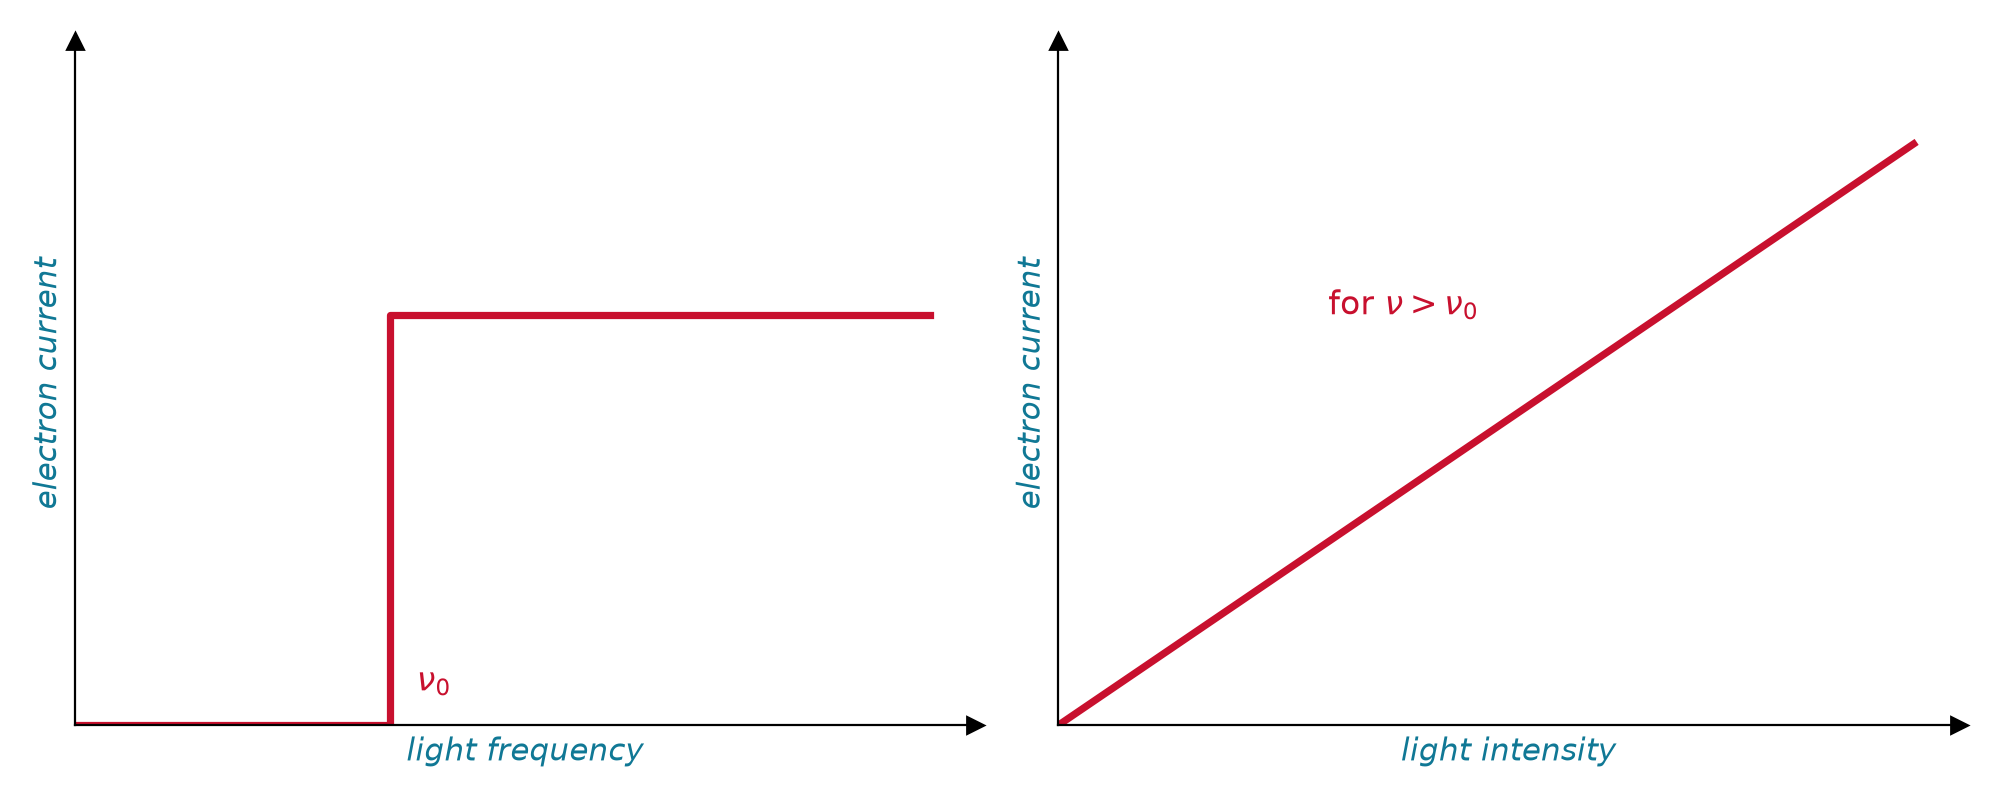
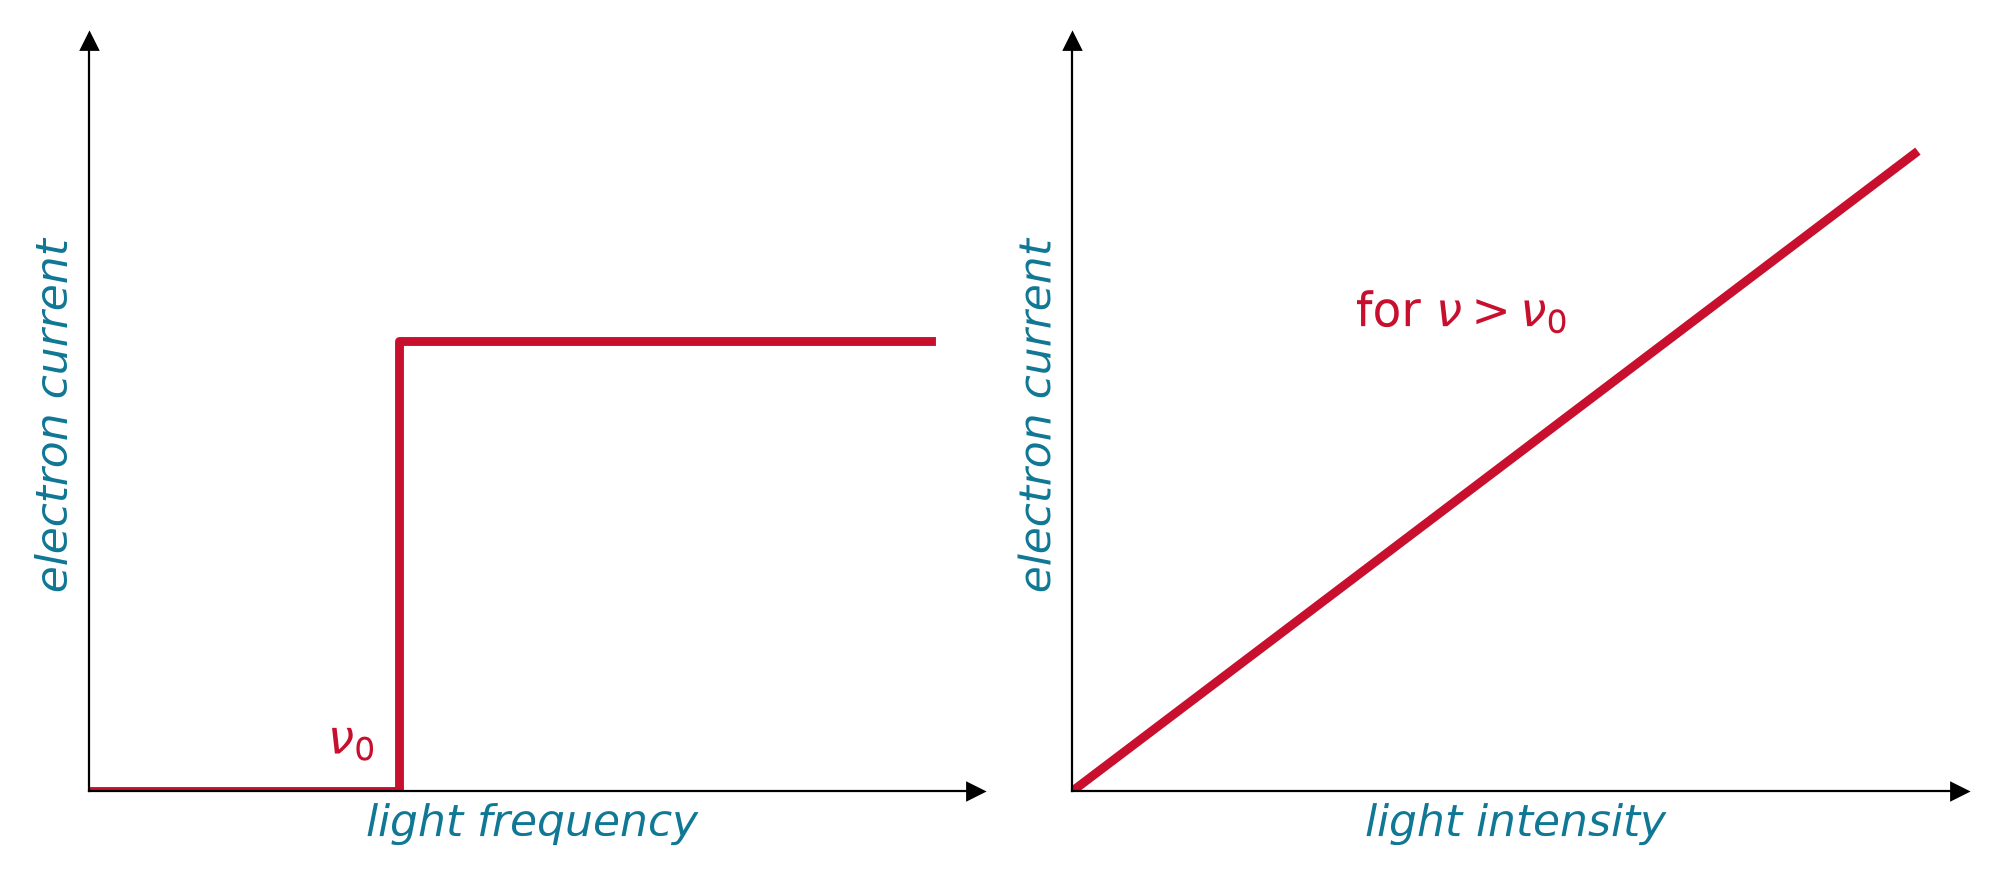
'photoelectric fix'

diff --git a/scripts/make_ch01_figures.py b/scripts/make_ch01_figures.py
@@ -177,23 +177,53 @@ ax.text(0, -radii[nmax] - 0.5, "orbit spacing schematic, not to scale", ha="cent
 ax.set_xlim(-6.4, 6.4); ax.set_ylim(-6.3, 6.4); ax.set_aspect("equal"); ax.axis("off")
 fig.tight_layout(); fig.savefig(f"{OUT}/bohr_series_orbits.png", dpi=200)
 
+# ---------------------------------------------------------------- 5b. why the classical wave picture fails
+fig, d1 = plt.subplots(figsize=(7.6, 4.6))
+schematic_axes(d1, "light intensity (brightness)", "electron kinetic energy")
+d1.xaxis.label.set_size(16); d1.yaxis.label.set_size(16)
+d1.plot([0, 0.9], [0.1, 0.75], "--", color=TEAL, lw=3.2)
+d1.text(0.48, 0.72, "KE predicted by\nclassical physics", color=TEAL, fontsize=17, ha="center")
+d1.plot([0, 0.9], [0.32, 0.32], color=CARDINAL, lw=3.4)
+d1.text(0.45, 0.20, "observed KE", color=CARDINAL, fontsize=17, ha="center")
+fig.tight_layout(); fig.savefig(f"{OUT}/photoelectric_classical_fail.png", dpi=200)
+
+# ---------------------------------------------------------------- 5c. wave vs photon stream
+fig, (e1, e2) = plt.subplots(2, 1, figsize=(8.5, 4.6), sharex=True)
+xw = np.linspace(0, 10, 800)
+e1.plot(xw, 0.8 * np.sin(2 * np.pi * 1.2 * xw), color=TEAL, lw=2.4)
+e1.set_ylim(-1.6, 1.6); e1.axis("off")
+e1.set_title("classical picture: a continuous wave, energy set by its amplitude", fontsize=13, color=BLACK, fontweight="bold")
+rng2 = np.random.default_rng(3)
+xp = np.linspace(0.4, 9.6, 14) + rng2.uniform(-0.15, 0.15, 14)
+yp = rng2.uniform(-0.75, 0.75, 14)
+e2.scatter(xp, yp, s=180, color=CARDINAL, alpha=0.9, edgecolors="white")
+for xi, yi in zip(xp[::3], yp[::3]):
+    e2.text(xi, yi + 0.42, r"$h\nu$", fontsize=12, ha="center", color=CARDINAL)
+e2.annotate("", xy=(10.4, 0), xytext=(9.9, 0), arrowprops=dict(arrowstyle="->", color=BLACK, lw=1.6))
+e2.set_ylim(-1.6, 1.6); e2.set_xlim(0, 10.6); e2.axis("off")
+e2.set_title("Einstein's picture: a stream of packets, each carrying exactly E = hν", fontsize=13, color=BLACK, fontweight="bold")
+fig.tight_layout(); fig.savefig(f"{OUT}/photon_stream.png", dpi=200)
+
 # ---------------------------------------------------------------- 6. photoelectric schematics
 nu0 = 0.35
-fig, (a1, a2) = plt.subplots(1, 2, figsize=(10, 4))
+fig, (a1, a2) = plt.subplots(1, 2, figsize=(10, 4.4))
 schematic_axes(a1, "light frequency", "electron kinetic energy")
-a1.plot([0, nu0], [0, 0], color=CARDINAL, lw=2.6); a1.plot([nu0, 0.95], [0, 0.8], color=CARDINAL, lw=2.6)
-a1.text(nu0 - 0.025, 0.05, r"$\nu_0$", ha="right", color=CARDINAL, fontsize=12)
-a1.text(0.58, 0.36, "slope = h", color=GRAY, fontsize=10, rotation=np.degrees(np.arctan2(0.8, 0.6)), transform_rotates_text=True, rotation_mode="anchor")
+a1.plot([0, nu0], [0, 0], color=CARDINAL, lw=3.2); a1.plot([nu0, 0.95], [0, 0.8], color=CARDINAL, lw=3.2)
+a1.text(nu0 - 0.025, 0.05, r"$\nu_0$", ha="right", color=CARDINAL, fontsize=17)
+a1.text(0.56, 0.33, "slope = h", color=GRAY, fontsize=14, rotation=np.degrees(np.arctan2(0.8, 0.6)), transform_rotates_text=True, rotation_mode="anchor")
 schematic_axes(a2, "light intensity", "electron kinetic energy")
-a2.plot([0, 0.95], [0.55, 0.55], color=CARDINAL, lw=2.6); a2.text(0.5, 0.6, r"$\nu > \nu_0$", ha="center", color=CARDINAL, fontsize=12)
-a2.plot([0, 0.95], [0, 0], color=CARDINAL, lw=2.6); a2.text(0.5, 0.05, r"$\nu < \nu_0$", ha="center", color=CARDINAL, fontsize=12)
+a2.plot([0, 0.95], [0.55, 0.55], color=CARDINAL, lw=3.2); a2.text(0.5, 0.61, r"$\nu > \nu_0$", ha="center", color=CARDINAL, fontsize=17)
+a2.plot([0, 0.95], [0, 0], color=CARDINAL, lw=3.2); a2.text(0.5, 0.06, r"$\nu < \nu_0$", ha="center", color=CARDINAL, fontsize=17)
+for ax in (a1, a2):
+    ax.xaxis.label.set_size(16); ax.yaxis.label.set_size(16)
 fig.tight_layout(); fig.savefig(f"{OUT}/photoelectric_ke.png", dpi=200)
 
-fig, (a1, a2) = plt.subplots(1, 2, figsize=(10, 4))
+fig, (a1, a2) = plt.subplots(1, 2, figsize=(10, 4.4))
 schematic_axes(a1, "light frequency", "electron current")
-a1.plot([0, nu0, nu0, 0.95], [0, 0, 0.6, 0.6], color=CARDINAL, lw=2.6)
-a1.text(nu0 + 0.03, 0.05, r"$\nu_0$", ha="left", color=CARDINAL, fontsize=12)
+a1.plot([0, nu0, nu0, 0.95], [0, 0, 0.6, 0.6], color=CARDINAL, lw=3.2)
+a1.text(nu0 - 0.025, 0.05, r"$\nu_0$", ha="right", color=CARDINAL, fontsize=17)
 schematic_axes(a2, "light intensity", "electron current")
-a2.plot([0, 0.95], [0, 0.85], color=CARDINAL, lw=2.6); a2.text(0.3, 0.6, r"for $\nu > \nu_0$", color=CARDINAL, fontsize=12)
+a2.plot([0, 0.95], [0, 0.85], color=CARDINAL, lw=3.2); a2.text(0.32, 0.62, r"for $\nu > \nu_0$", color=CARDINAL, fontsize=17)
+for ax in (a1, a2):
+    ax.xaxis.label.set_size(16); ax.yaxis.label.set_size(16)
 fig.tight_layout(); fig.savefig(f"{OUT}/photoelectric_current.png", dpi=200)
-print("done")
